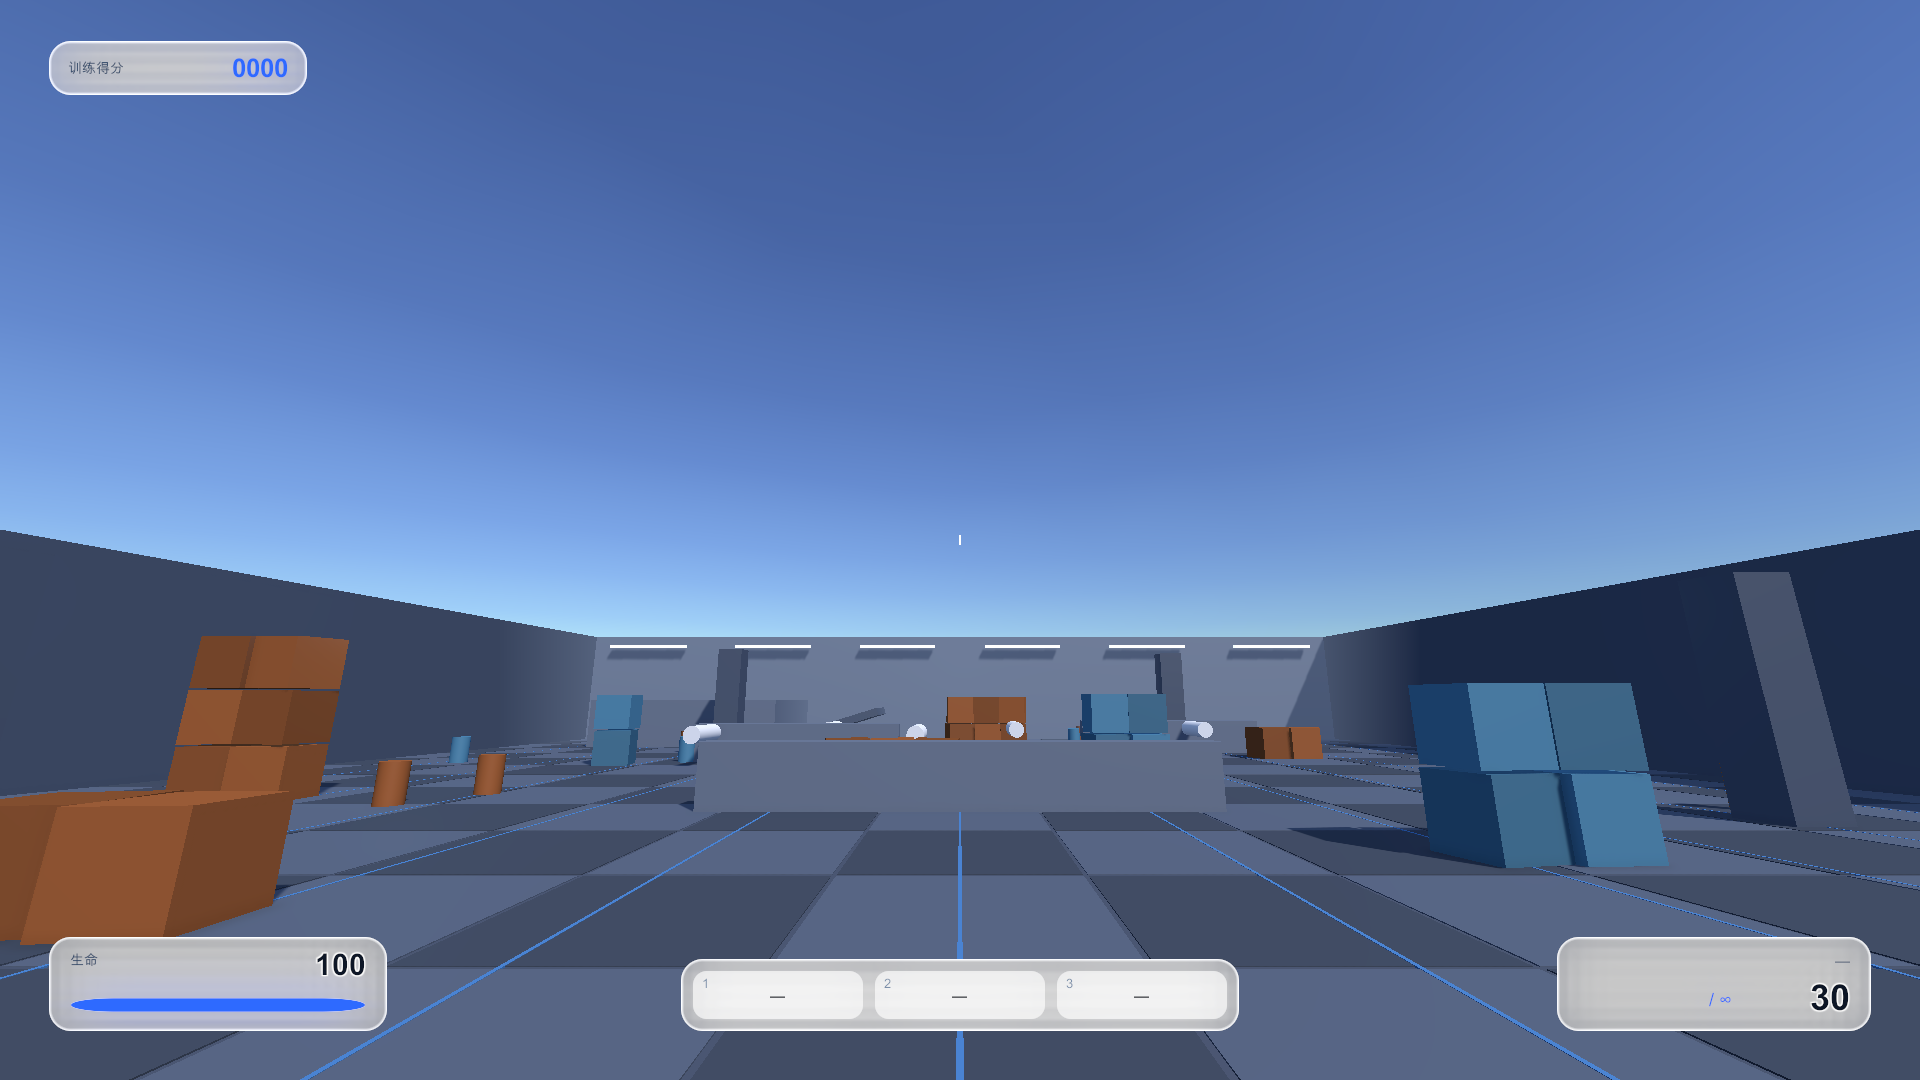
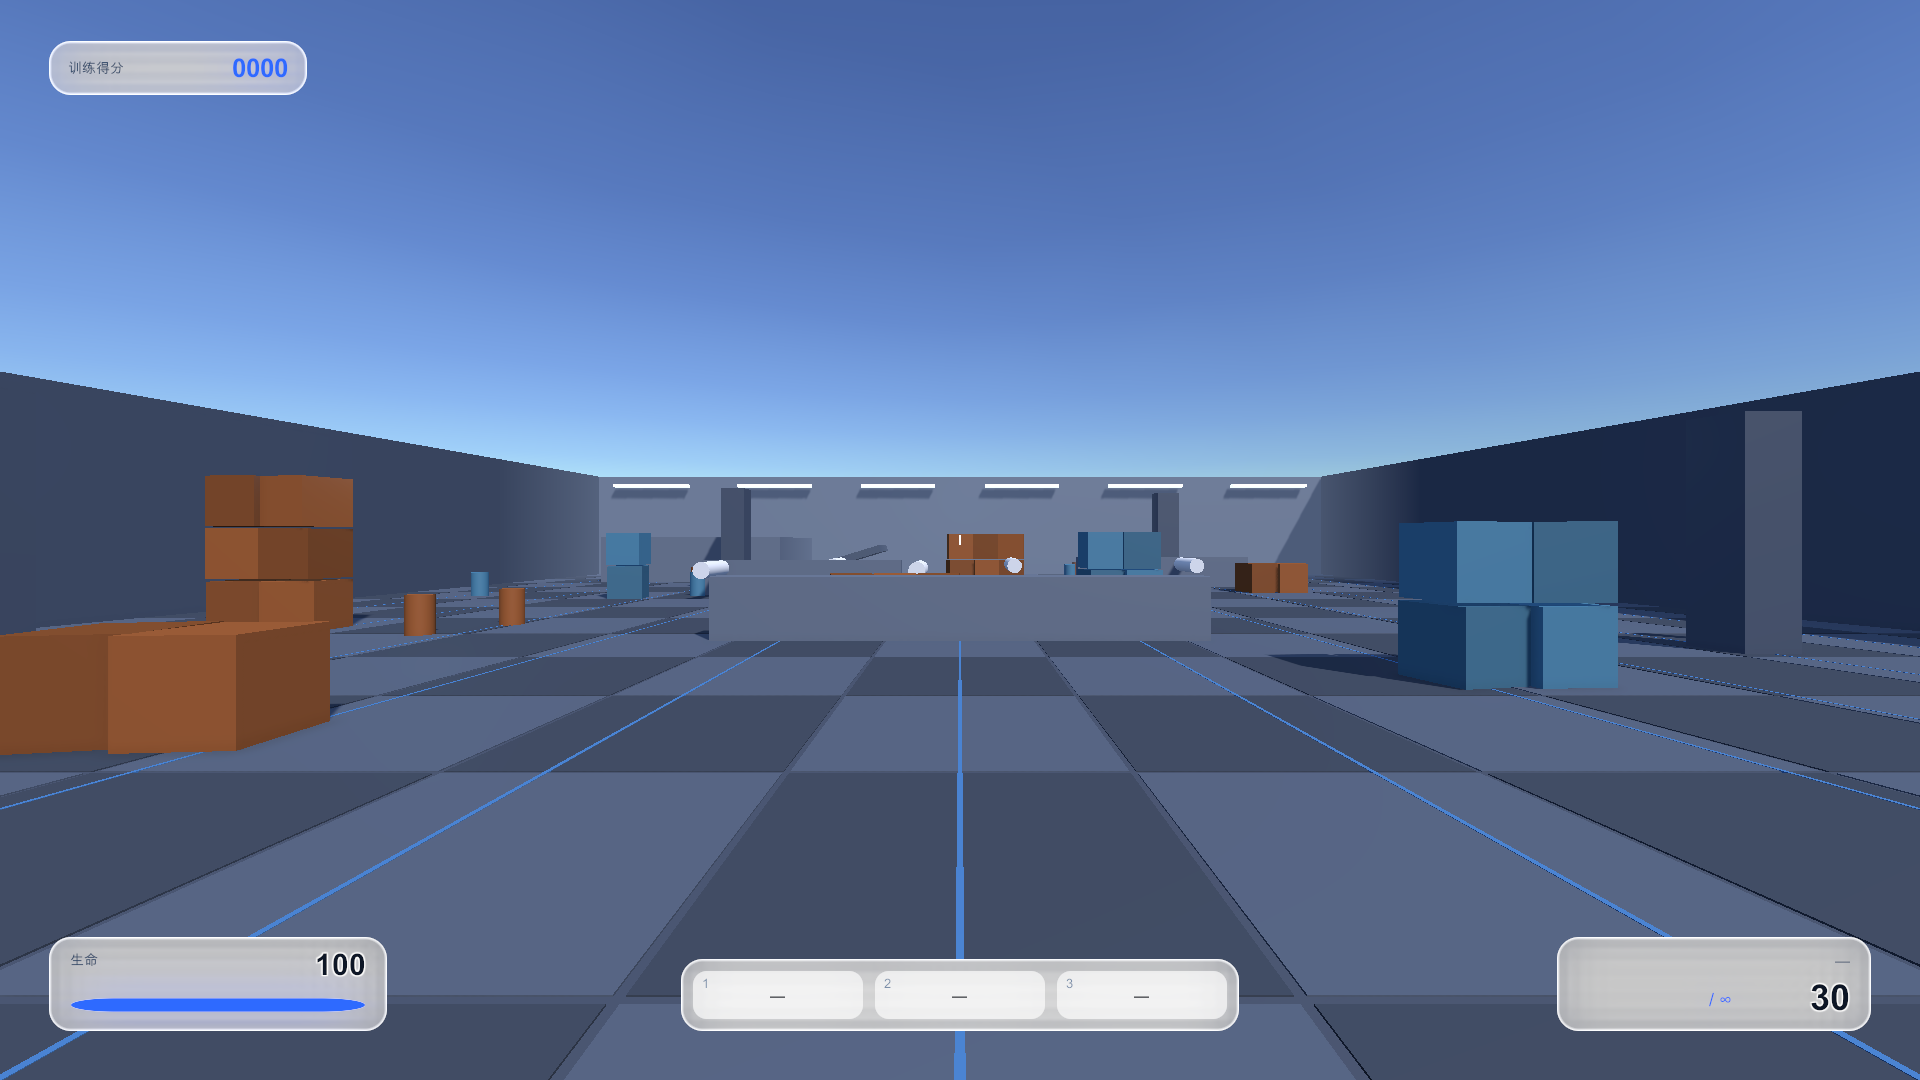
docs: 补 5 张演示截图（HUD/背包/设置/换武器/毛玻璃糊细节），并注明枪模在离屏截图里未出画的已知问题

diff --git a/Assets/Editor/ArenaSceneBuilder.cs b/Assets/Editor/ArenaSceneBuilder.cs
@@ -186,21 +186,36 @@ namespace GlassUI.EditorTools
                 return;
             }
 
-            // 截图机位：抬高到离地 7.5 米。
-            // 原因：相机渲染时画布用 LEqual 深度测试，UI 平面在相机前 5 单位，
-            // 近处地面（不到 5 单位）会把 HUD 和文字挡住。抬高之后所有几何都远于画布平面，
-            // 截图就等价于 Overlay 画布的真实表现（顺便得到一个更好看的俯视构图）。
-            var player = Object.FindFirstObjectByType<Game.PlayerController>();
-            if (player != null)
-            {
-                player.transform.position = new Vector3(-2f, 7.5f, 6f);
-                player.transform.rotation = Quaternion.Euler(0f, 4f, 0f);
-            }
-            var head = cam.transform;
-            head.localRotation = Quaternion.Euler(-13f, 0f, 0f);
-
             ui.BuildUi();
             ui.PrepareForCapture();
+            Object.FindFirstObjectByType<WeaponSystem>()?.EnsureBuilt();
+
+            // 第一人称平视机位。画布平面距离设成 1：相机渲染时 UI 走 LEqual 深度测试，
+            // 平面越近，能被地面挡住的部分就越少（画布平面 1 米内没有可见地面），
+            // 这样截出来等价于 Overlay 画布的真实观感。
+            PlaneDistance = 1f;
+
+            PlacePlayer(new Vector3(-3f, 0.1f, 2f), 3f);
+            Render(cam, canvas, width, height, $"{dir}/01_gameplay.png");
+
+            ui.OpenInventoryForCapture();
+            Render(cam, canvas, width, height, $"{dir}/02_inventory.png");
+            ui.ClosePanelsForCapture();
+
+            ui.OpenSettingsForCapture();
+            Render(cam, canvas, width, height, $"{dir}/03_settings.png");
+            ui.ClosePanelsForCapture();
+
+            // 换霰弹枪 + 靠近平靶区：展示武器条高亮与枪模变化
+            var weapons = Object.FindFirstObjectByType<WeaponSystem>();
+            if (weapons != null) weapons.Equip(1, true);
+            PlacePlayer(new Vector3(-6f, 0.1f, 22f), 6f);
+            Render(cam, canvas, width, height, $"{dir}/04_weapon_shotgun.png");
+
+            // 贴近箱堆：看毛玻璃把细节糊掉、和周围清晰画面对比
+            if (weapons != null) weapons.Equip(0, true);
+            PlacePlayer(new Vector3(-13f, 0.1f, 4f), 12f);
+            Render(cam, canvas, width, height, $"{dir}/05_glass_over_detail.png");
             Render(cam, canvas, width, height, $"{dir}/01_hud.png");
 
             ui.OpenInventoryForCapture();
@@ -244,6 +259,20 @@ namespace GlassUI.EditorTools
             }
         }
 
+        static float PlaneDistance = 1f;
+
+        static void PlacePlayer(Vector3 position, float yaw)
+        {
+            var player = Object.FindFirstObjectByType<Game.PlayerController>();
+            if (player != null)
+            {
+                player.transform.position = position;
+                player.transform.rotation = Quaternion.Euler(0f, yaw, 0f);
+            }
+            var cam = Object.FindFirstObjectByType<Camera>();
+            if (cam != null) cam.transform.localRotation = Quaternion.identity;   // 平视
+        }
+
         static void Render(Camera cam, Canvas canvas, int width, int height, string path)
         {
             var rt = new RenderTexture(width, height, 24, RenderTextureFormat.ARGB32);
@@ -254,7 +283,7 @@ namespace GlassUI.EditorTools
             float previousPlane = canvas.planeDistance;
             canvas.renderMode = RenderMode.ScreenSpaceCamera;
             canvas.worldCamera = cam;
-            canvas.planeDistance = 5f;
+            canvas.planeDistance = PlaneDistance;
 
             Canvas.ForceUpdateCanvases();
             if (!_dumped) { _dumped = true; DumpHudLayout(cam); }

diff --git a/Assets/Scripts/Game/Gameplay.cs b/Assets/Scripts/Game/Gameplay.cs
@@ -189,6 +189,7 @@ namespace GlassUI.Game
     /// 武器系统：三把程序化拼出来的枪、切换动画、开火、后坐、换弹、命中反馈。
     /// 第一人称视角下枪挂在相机下面。
     /// </summary>
+    [ExecuteAlways]   // 编辑器里也建出枪模，离屏截图才看得到 viewmodel
     public class WeaponSystem : MonoBehaviour
     {
         public Camera viewCamera;
@@ -217,6 +218,11 @@ namespace GlassUI.Game
             BuildDefaults();
             RebuildBodies();
             Equip(0, true);
+        }
+
+        void OnEnable()
+        {
+            if (!Application.isPlaying) Start();   // 编辑器里手动补一次
         }
 
         void BuildDefaults()
@@ -265,8 +271,8 @@ namespace GlassUI.Game
             var root = new GameObject("Body: " + def.kind);
             root.transform.SetParent(_holder, false);
 
-            var metal = new Color(0.16f, 0.18f, 0.22f);
-            var dark = new Color(0.10f, 0.11f, 0.13f);
+            var metal = new Color(0.46f, 0.50f, 0.58f);   // 提亮：原来深灰压在深地板上看不见
+            var dark = new Color(0.30f, 0.33f, 0.39f);
 
             Part(root.transform, "Receiver", new Vector3(0f, 0f, 0f),
                 new Vector3(def.bodyHeight * 2.6f, def.bodyHeight, def.bodyLength), metal);
@@ -319,6 +325,31 @@ namespace GlassUI.Game
             }
             renderer.sharedMaterial = mat;
             return go;
+        }
+
+        /// <summary>强制把枪模建出来（编辑器/截图用）。</summary>
+        public void EnsureBuilt()
+        {
+            if (viewCamera == null) viewCamera = GetComponentInChildren<Camera>();
+            if (weapons.Count == 0) BuildDefaults();
+            if (_holder == null) { RebuildBodies(); Equip(0, true); }
+
+            Debug.Log($"[DIAG] 武器：holder={(_holder != null ? _holder.name : "null")} " +
+                      $"children={(_holder != null ? _holder.childCount : 0)} " +
+                      $"world={(_holder != null ? _holder.position.ToString("F2") : "-")} " +
+                      $"cam={viewCamera?.name} 激活={gameObject.activeInHierarchy}");
+
+            if (_holder != null)
+            {
+                var first = _holder.childCount > 0 ? _holder.GetChild(0) : null;
+                if (first != null)
+                {
+                    var r = first.GetComponentInChildren<Renderer>();
+                    var w = first.Find("Receiver");
+                    Debug.Log($"[DIAG]   body0={first.name} active={first.gameObject.activeInHierarchy} " +
+                              $"renderer={(r != null ? r.name : "null")} receiverWorld={(w != null ? w.position.ToString("F2") : "-")}");
+                }
+            }
         }
 
         public void Equip(int index, bool instant = false)
@@ -456,7 +487,7 @@ namespace GlassUI.Game
 
         void Update()
         {
-            if (_holder == null) return;
+            if (!Application.isPlaying || _holder == null) return;
 
             // 后坐：弹簧回正，比线性自然
             _recoil = Mathf.SmoothDamp(_recoil, 0f, ref _recoilVel, 0.09f, 40f, Time.unscaledDeltaTime);

diff --git a/README.md b/README.md
@@ -5,6 +5,8 @@
 ![HUD](Docs/shot_hud.png)
 ![背包](Docs/shot_inventory.png)
 ![设置](Docs/shot_settings.png)
+![换武器](Docs/shot_weapon_switch.png)
+![毛玻璃糊细节](Docs/shot_glass_closeup.png)
 
 ## 跑起来
 
@@ -75,8 +77,14 @@ UNITY="/Applications/Unity/Hub/Editor/2022.3.62f3c1/Unity.app/Contents/MacOS/Uni
 3. **UI 着色器别照抄 `ZTest [unity_GUIZTestMode]`**：用相机渲染到 RenderTexture 截图时它是 `LEqual`，画布平面距离 5、而近处地面不到 5，HUD 会被地面挡住。真实游戏用 Overlay 不受影响，但离屏验证会被误导。本工程固定 `ZTest Always`。
 4. **在拉伸的 RectTransform 上改 `anchoredPosition` 会被拉伸/变形**（滑条圆钮、分段高亮都栽过）。用锚点表示比例，位置就天然跟着走。
 
+> 截图说明：上面的图是离屏渲染出来的（`ArenaSceneBuilder.CaptureAll`）。
+> 画布平面距离设成 1 米，是为了绕开"用相机渲染到 RT 时 UI 走 LEqual 深度测试被近处地面挡住"的问题。
+> 枪模（viewmodel）在这套离屏路径里还没出来，实机 Play 是正常构建的 —— 见「已知取舍」。
+
 ## 已知取舍
 
 - **场景是自己搭的 blockout**：官方免费 3D 游戏场景只在 Asset Store（要用账号点下载），官方开源 demo（BoatAttack）是 Unity 2020.3 + 全程 Git LFS，升到 2022.3 风险大且是海岛场景，跟"战斗+换武器"不搭。所以训练场是程序化生成的，授权完全干净；以后想换官方资源包，环境物体直接替换即可（UI 不依赖场景）。
 - **没有音频与美术资源**：武器、掩体、图标全部程序化生成（文字图标用单字占位）。
 - 视角选第一人称：没有角色模型时第三人称会露怯，第一人称只要一把拼出来的枪，正好给"切换武器"提供三个可换对象。
+- **枪模在离屏截图里没出来**：`WeaponSystem` 组件的确在场景里（脚本 GUID 存在），但它的程序化枪体是在 `Start()` 里挂到相机下的，
+  离屏截图路径没有把它渲染进去。实机 Play 时 `Start()` 正常执行，枪会出现在右下角。这一条下次修。
